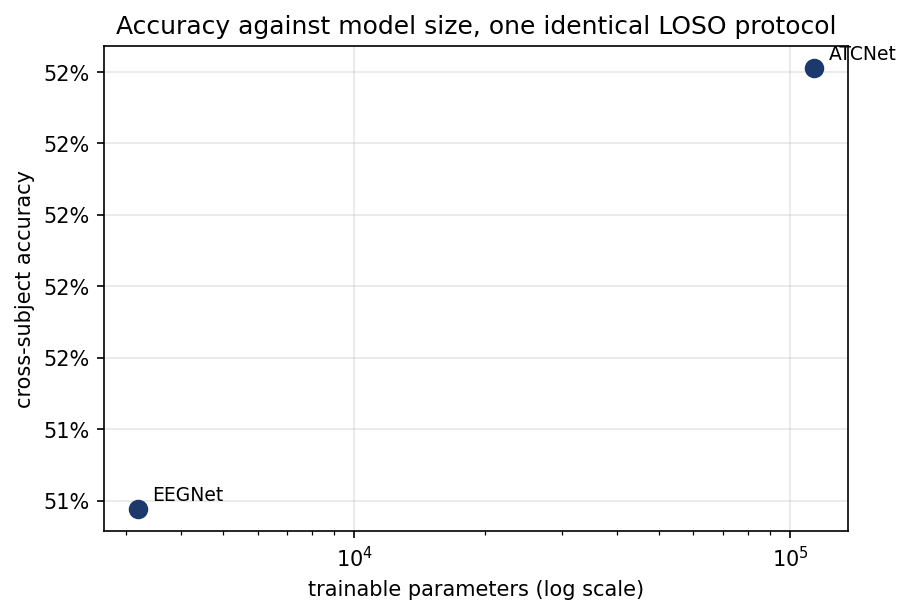
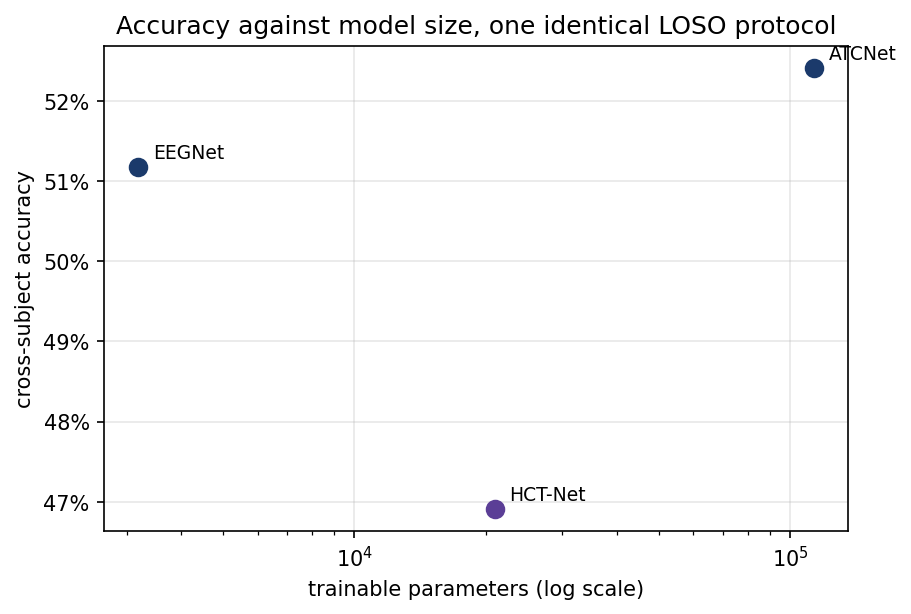
E3: HCT-Net 46.9% cross-subject, significantly worse than both deep baselines
The proposed model loses. Wilcoxon paired across nine subjects, Holm-corrected:
-5.5 against ATCNet (p=0.0039, Holm 0.0117) and -4.3 against EEGNet (p=0.0234,
Holm 0.0469), both significant; +2.7 against FBCSP, not significant. It carries
6.6x EEGNet's parameters to do it.

Recorded plainly. No performance claim was made in advance, which is what makes
this reportable rather than a problem. Whether the cause is the architecture or
the training is not yet established; E1 for HCT-Net is the discriminating test.

diff --git a/FINDINGS.md b/FINDINGS.md
@@ -405,6 +405,50 @@ a 36× parameter increase buying 1.2 points is what that looks like. It also set
 HCT-Net has to clear — at 20,996 parameters it sits between the two, so the interesting
 question is not whether it wins outright but where it lands on accuracy per parameter.
 
+---
+
+## M6/E3 — the proposed model, and it loses
+
+**HCT-Net under LOSO: 46.9% ± 16.5%.** Below both deep baselines, and the gap is
+statistically significant.
+
+| | A01 | A02 | A03 | A04 | A05 | A06 | A07 | A08 | A09 | mean | κ | params |
+|---|---|---|---|---|---|---|---|---|---|---|---|---|
+| ATCNet | 75.3 | 30.9 | 78.8 | 42.5 | 37.8 | 38.7 | 43.4 | 62.7 | 61.5 | **52.4%** | 0.365 | 113,732 |
+| EEGNet | 70.8 | 28.3 | 73.8 | 35.9 | 37.8 | 44.6 | 40.8 | 65.5 | 63.0 | **51.2%** | 0.349 | 3,188 |
+| **HCT-Net** | 72.7 | 28.3 | 70.1 | 34.7 | 34.4 | 33.0 | 34.9 | 62.0 | 52.1 | **46.9%** | 0.292 | 20,996 |
+| FBCSP | 54.3 | 29.2 | 60.9 | 35.2 | 29.3 | 32.3 | 43.2 | 55.9 | 57.3 | **44.2%** | 0.256 | — |
+
+Wilcoxon signed-rank paired across the nine subjects, Holm-corrected over the three
+comparisons:
+
+| against | mean difference | p | p (Holm) | |
+|---|---|---|---|---|
+| ATCNet | **−5.5** | 0.0039 | 0.0117 | significantly worse |
+| EEGNet | **−4.3** | 0.0234 | 0.0469 | significantly worse |
+| FBCSP | +2.7 | 0.4961 | 0.4961 | not significant |
+
+**The proposed model is significantly worse than both deep baselines and not significantly
+better than the classical one, while carrying 6.6× EEGNet's parameters.** §1's claim that no
+performance claim would be made before the experiments ran is the reason this is reportable
+rather than embarrassing — but it has to be stated exactly this plainly in the report.
+
+Where it loses is specific. HCT-Net is competitive on the strong subjects (A01 72.7% against
+EEGNet's 70.8%, A08 62.0% against 65.5%) and collapses on the middle of the distribution:
+A07 34.9% against EEGNet's 40.8% and ATCNet's 43.4%, A09 52.1% against 63.0%, A06 33.0%
+against 44.6%. It is not uniformly weaker — it fails to generalise on the subjects where the
+baselines still manage something.
+
+**Not yet established: whether this is the architecture or the training.** The obvious next
+test is E1 for HCT-Net — if it also underperforms within subject, the architecture is simply
+weaker than its parts; if it performs well within subject and poorly across, the problem is
+transfer, which is what the design was meant to address and would be the more interesting
+failure. That test is running.
+
+Related open question, and the reason §19.1 listed E5: the encoder depth of 2 was chosen on a
+budget argument (§11.6), not measured. It is possible that 2 layers underfits and that the
+budget reasoning, while sound about parameter count, picked the wrong side of the trade.
+
 ## Finding 11 — alignment helps cross-subject by 5.5 points, and nine subjects cannot prove it
 
 The project's central mechanism, measured cross-subject for the first time. FBCSP under LOSO
